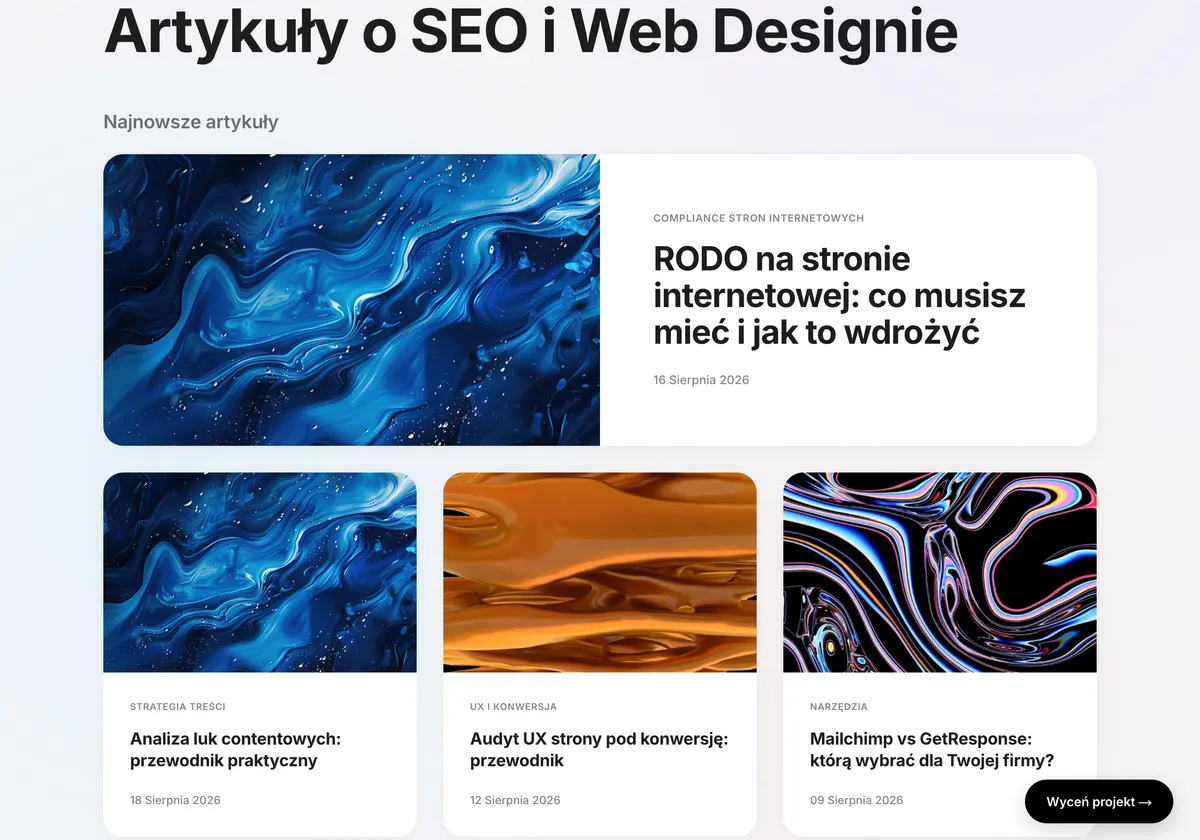
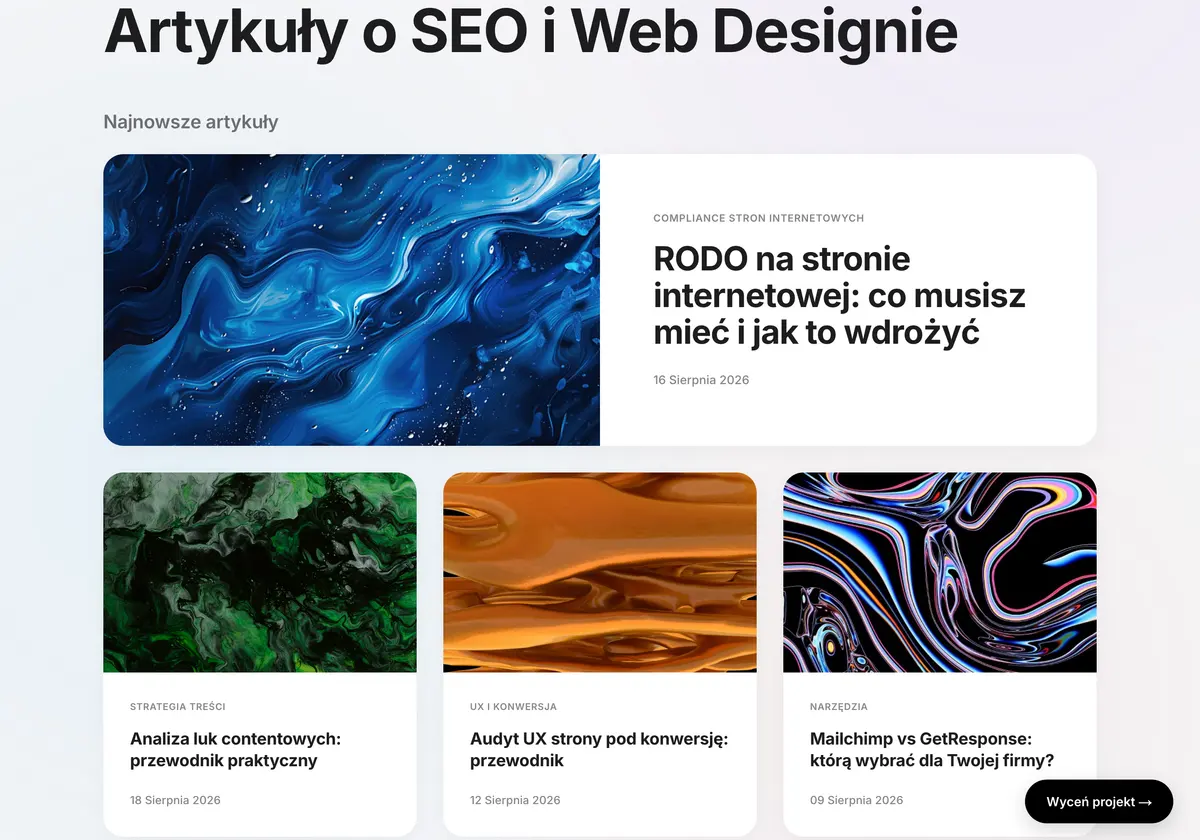
fix(blog): zero duplikatow grafik na PL przy zachowaniu decyzji dla EN
Sprzeczne wymagania pogodzone per jezyk: karta "Analiza luk" na
polskim blogu wraca na szmaragd (RODO + Analiza luk dzielily niebieski
- duplikat obok siebie w siatce), a karta EN "Content Gap Analysis"
zostaje na niebieskim jak chcial klient - RODO jest plOnly, wiec na
angielskim blogu duplikat nie wystepuje.

Mechanika: opcjonalne pola imageEn/heroImageEn we wpisie + preferencja
wariantu EN w BlogGrid i BlogLibrary (uzywajacych useLocale).
Zweryfikowane curl-em: PL grid = niebieski x1 / szmaragd x1 / miedz x1,
EN grid = niebieski x1 / szmaragd x1.

Kafel bloga w mozaice: swiezy zrzut PL (own-blog-pl5) bez duplikatow;
wariant EN bez zmian (en4 - stan EN sie nie zmienil). Aliasy odswiezone.

Changed region(s): [[0.0617, 0.5571, 0.37, 0.8048]]

diff --git a/components/Portfolio.jsx b/components/Portfolio.jsx
@@ -121,7 +121,7 @@ const MOSAIC = [
 { src: '/projects/mosaic/sta-blog-pl4.webp', w: 1200, h: 844,
     alt: 'Karty artykułów bazy wiedzy Staniax — metalizacja próżniowa i regeneracja odbłyśników', altEn: 'Staniax knowledge base — articles on vacuum metallization' },
 { src: '/projects/mosaic/sta-a-v4.webp', w: 1200, h: 800, alt: 'Sekcja „Kim jesteśmy" strony Staniax — metalizacja próżniowa, 25 lat doświadczenia', altEn: 'About section of the Staniax vacuum metallization website' , srcEn: '/projects/mosaic/sta-a-en3.webp' },
-{ src: '/projects/mosaic/own-blog-pl4.webp', srcEn: '/projects/mosaic/own-blog-en4.webp', w: 1200, h: 840,
+{ src: '/projects/mosaic/own-blog-pl5.webp', srcEn: '/projects/mosaic/own-blog-en4.webp', w: 1200, h: 840,
     alt: 'Blog AI SEO COMPANY — artykuły o SEO i web designie', altEn: 'AI SEO COMPANY blog — articles on SEO and web design' },
 { src: '/projects/mosaic/fix-a-v2.webp', w: 1200, h: 520, alt: 'Sekcja hero strony producenta świetlików dachowych Stef-Bud', altEn: 'Hero section of the Stef-Bud skylight manufacturer website' },
 { src: '/projects/gsc/staniax.webp', w: 1600, h: 726, alt: 'Panel Performance staniax.pl w Google Search Console: 152 kliknięcia i 6,34 tys. wyświetleń w 3 miesiące', altEn: 'Google Search Console performance panel for staniax.pl: 152 clicks and 6.34K impressions over 3 months' },
@@ -168,7 +168,7 @@ export default function Portfolio() {
       return [
         ['sta-a-v4', 'sta-blog-pl4', 'staniax'],
         ['mad-a-v2', 'madamethai'],
-        ['own-hero-pl4', 'own-blog-pl4', 'ai-seo-company'],
+        ['own-hero-pl4', 'own-blog-pl5', 'ai-seo-company'],
         ['ase-a-v2', 'fix-a-v2', 'ase-bot'],
         ['elkat-a-v2', 'tql-a', 'tql'],
       ].map((stack) => stack.map((k) => byKey[k]));

diff --git a/lib/blogPosts.js b/lib/blogPosts.js
@@ -28,8 +28,12 @@ export const blogPosts = [
     descPl: 'Jak przeprowadzić analizę luk contentowych kończącą się backlogiem z priorytetami: wybór konkurentów, siedem typów luk, scoring i kwartalne powtórki.',
     descEn: 'Run a content gap analysis that ends in a prioritized roadmap: competitor selection, seven gap types, scoring by impact and effort, and quarterly re-runs.',
     slug: '/blog/content-gap-analysis',
-    image: '/images/pngtree-abstract-design-background-blue-color-with-aesthetic-and-liquid-style-image_15684491.jpg',
-    heroImage: '/images/pngtree-abstract-design-background-blue-color-with-aesthetic-and-liquid-style-image_15684491.jpg',
+    image: '/images/abstract-emerald-liquid-marble.webp',
+    // Karta EN celowo dzieli grafike z RODO (decyzja klienta); RODO jest
+    // plOnly, wiec na angielskim blogu duplikat nie wystapi.
+    imageEn: '/images/pngtree-abstract-design-background-blue-color-with-aesthetic-and-liquid-style-image_15684491.jpg',
+    heroImage: '/images/abstract-emerald-liquid-marble.webp',
+    heroImageEn: '/images/pngtree-abstract-design-background-blue-color-with-aesthetic-and-liquid-style-image_15684491.jpg',
     enOnly: false,
     plOnly: false
   },

diff --git a/components/BlogGrid.jsx b/components/BlogGrid.jsx
@@ -74,8 +74,8 @@ export default function BlogGrid() {
     tag: lang === 'pl' ? p.tagPl : p.tagEn,
     title: lang === 'pl' ? p.titlePl : p.titleEn,
     slug: p.slug,
-    image: p.image,
-    heroImage: p.heroImage || p.image,
+    image: (lang === 'en' && p.imageEn) || p.image,
+    heroImage: (lang === 'en' && (p.heroImageEn || p.imageEn)) || p.heroImage || p.image,
   });
 
   if (!heroPost) return null;

diff --git a/components/BlogLibrary.jsx b/components/BlogLibrary.jsx
@@ -17,7 +17,7 @@ export default function BlogLibrary() {
     tag: lang === 'pl' ? p.tagPl : p.tagEn,
     title: lang === 'pl' ? p.titlePl : p.titleEn,
     slug: p.slug,
-    image: p.image,
+    image: (lang === 'en' && p.imageEn) || p.image,
   });
 
   return (
